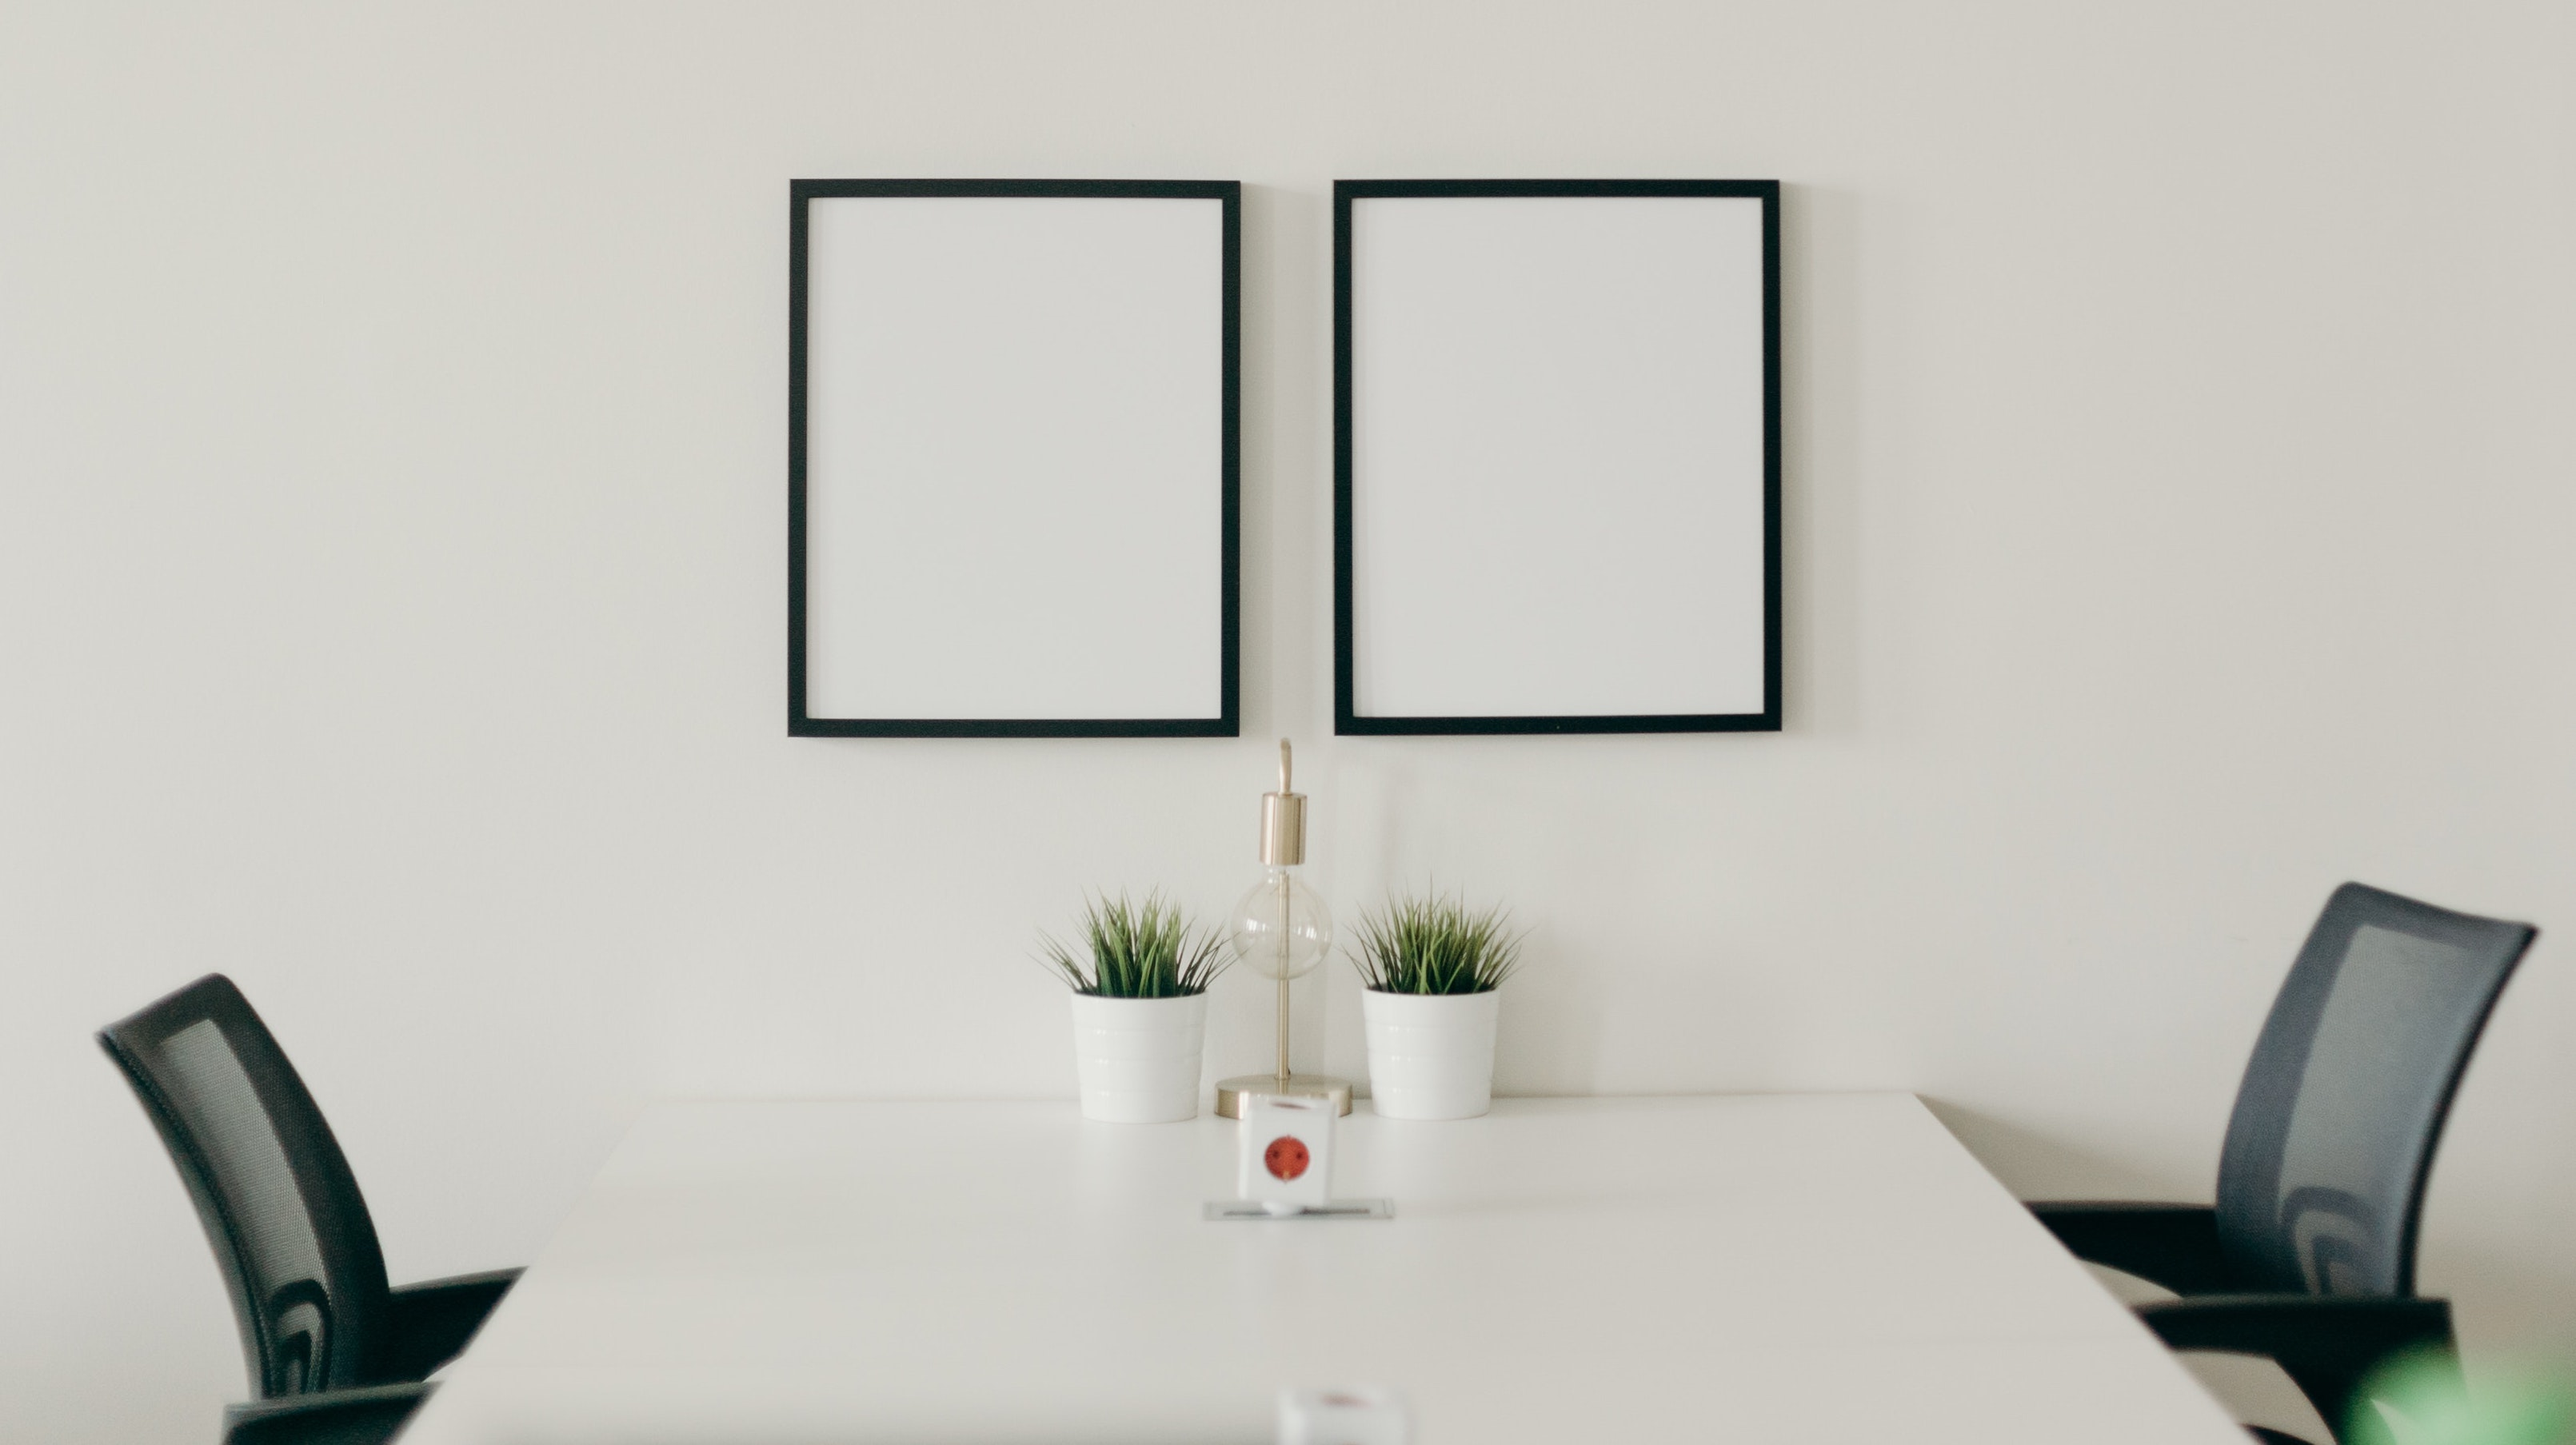
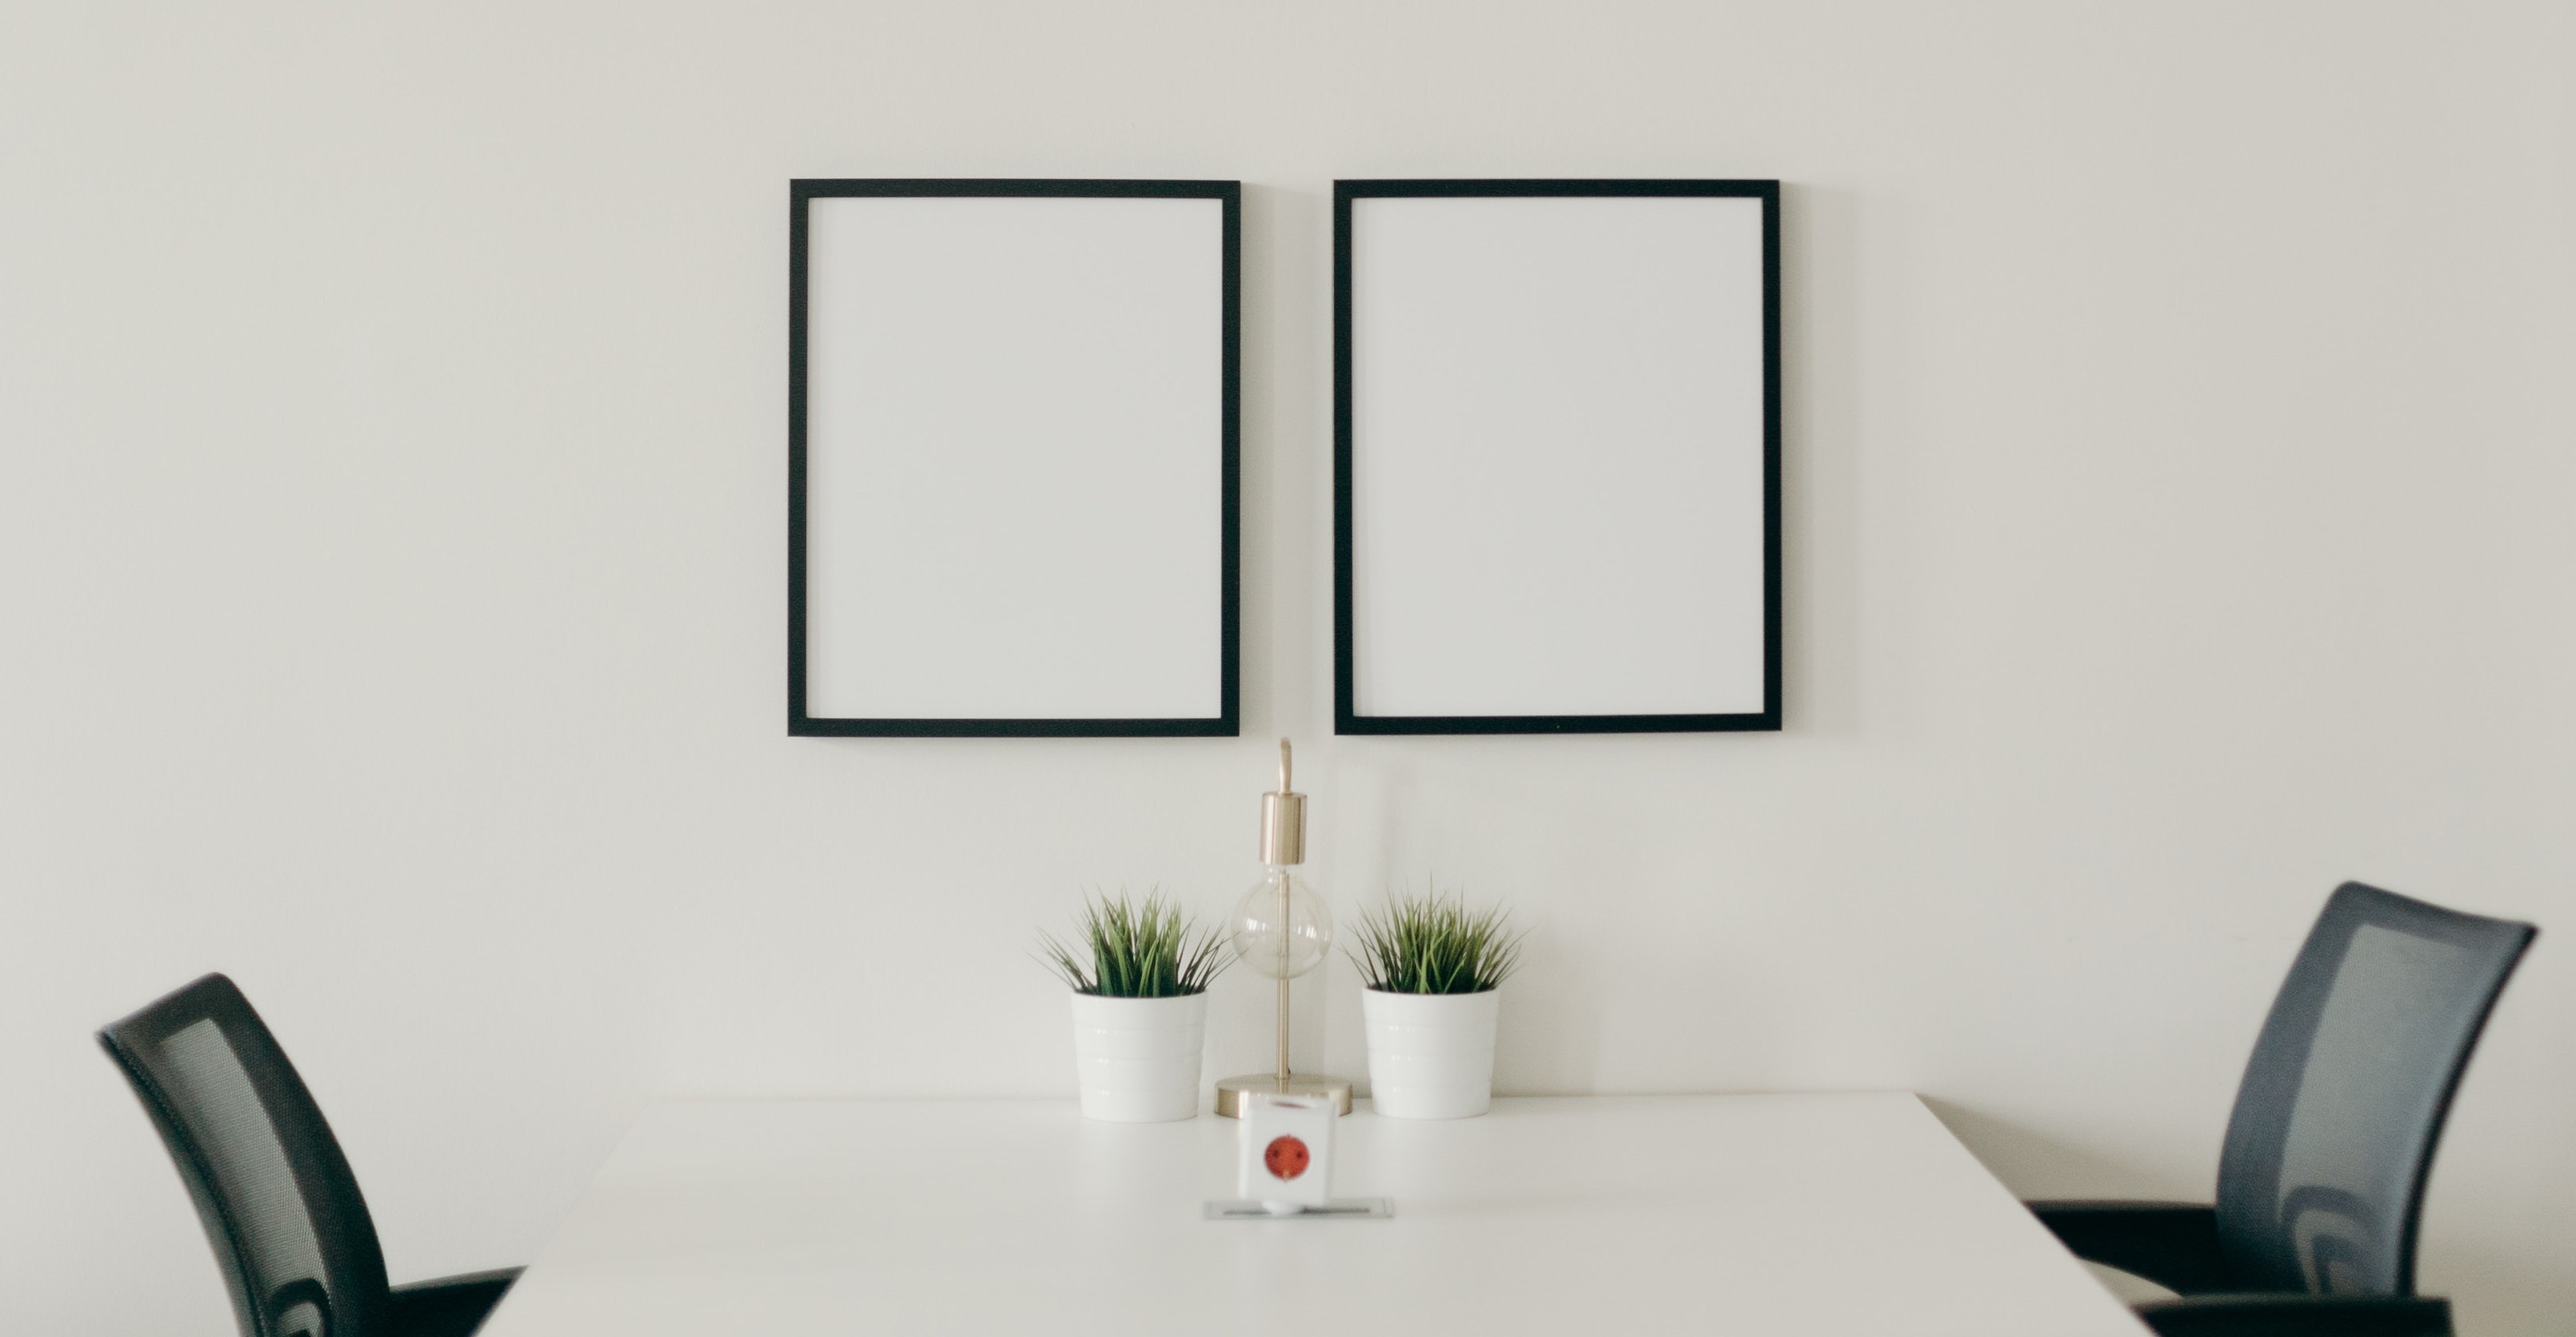
changed styling

diff --git a/index.js b/index.js
@@ -33,25 +33,12 @@ const addTeamMember = () => inquirer.prompt([
     {
         type: "list",
         name: "role",
-        message: "What is the team member's role?",
-        choices: ["Engineer", "Intern"]
-    },
-    {
-        type: "input",
-        name: "name",
-        message: "What is the team member's name?"
-    },
-    {
-        type: "input",
-        name: "id",
-        message: "What is the team member's ID number?"
-    },
-    {
-        type: "input",
-        name: "email",
-        message: "What is the team member's email?"
+        message: "Add a team member?",
+        choices: ["Engineer", "Intern", "No"]
     }
 ])
+
+const add
 
 createTeam()
     .then(addTeamMember)

diff --git a/dist/style.css b/dist/style.css
@@ -1,17 +1,32 @@
+* {
+    font-family: helvetica;
+}
+
+body {
+    background-color: #d0c6c7;
+}
+
 h1#heading {
+    max-width: 45%;
+    display: block;
+    margin-top: 50px;
+    margin-left: auto;
+    margin-right: auto;
     text-align: center;
-    background-image: linear-gradient(135deg, #afa7a8 0%, #aaa7af 100%);
+    background-color: #d0cdc6 ;
     color: black;
     padding: 40px;
-    border-bottom: 4px solid black;
+    border: 3px solid black;
 }
 
 img#office-space {
-    max-width: 40%;
+    max-width: 45%;
     height: auto;
     display: block;
+    margin-top: 50px;
     margin-left: auto;
     margin-right: auto;
+    border: 3px solid black;
 }
 
 div.row {
